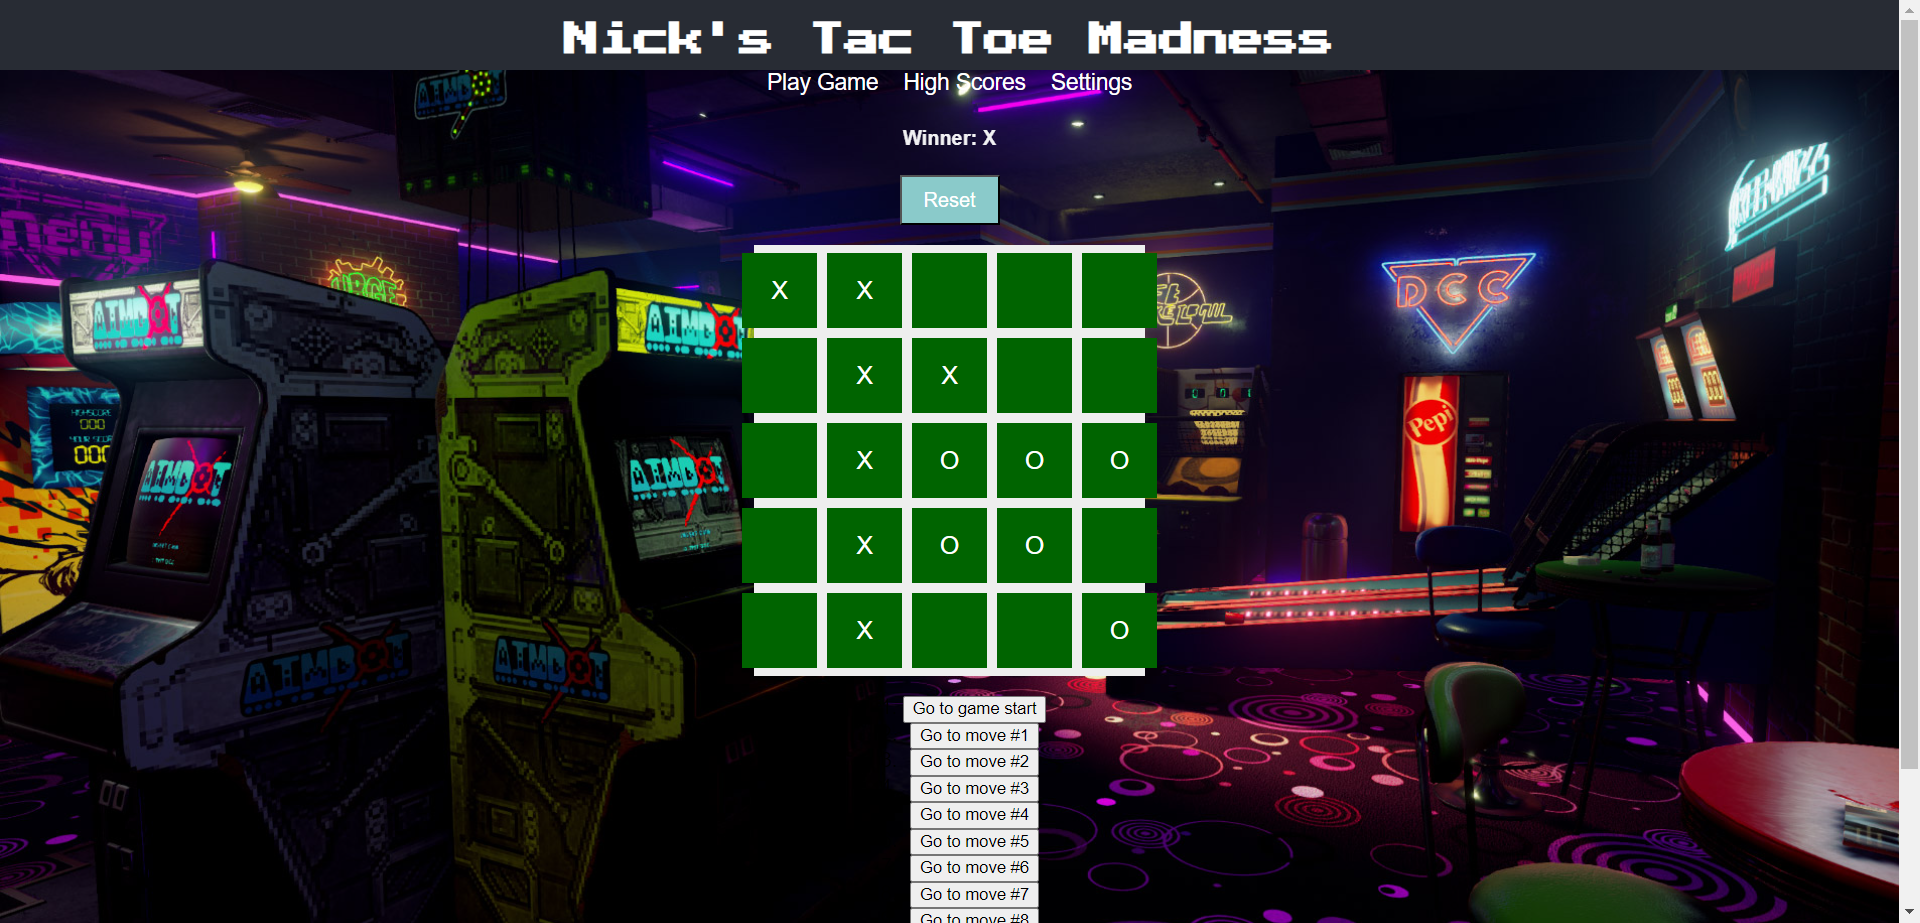
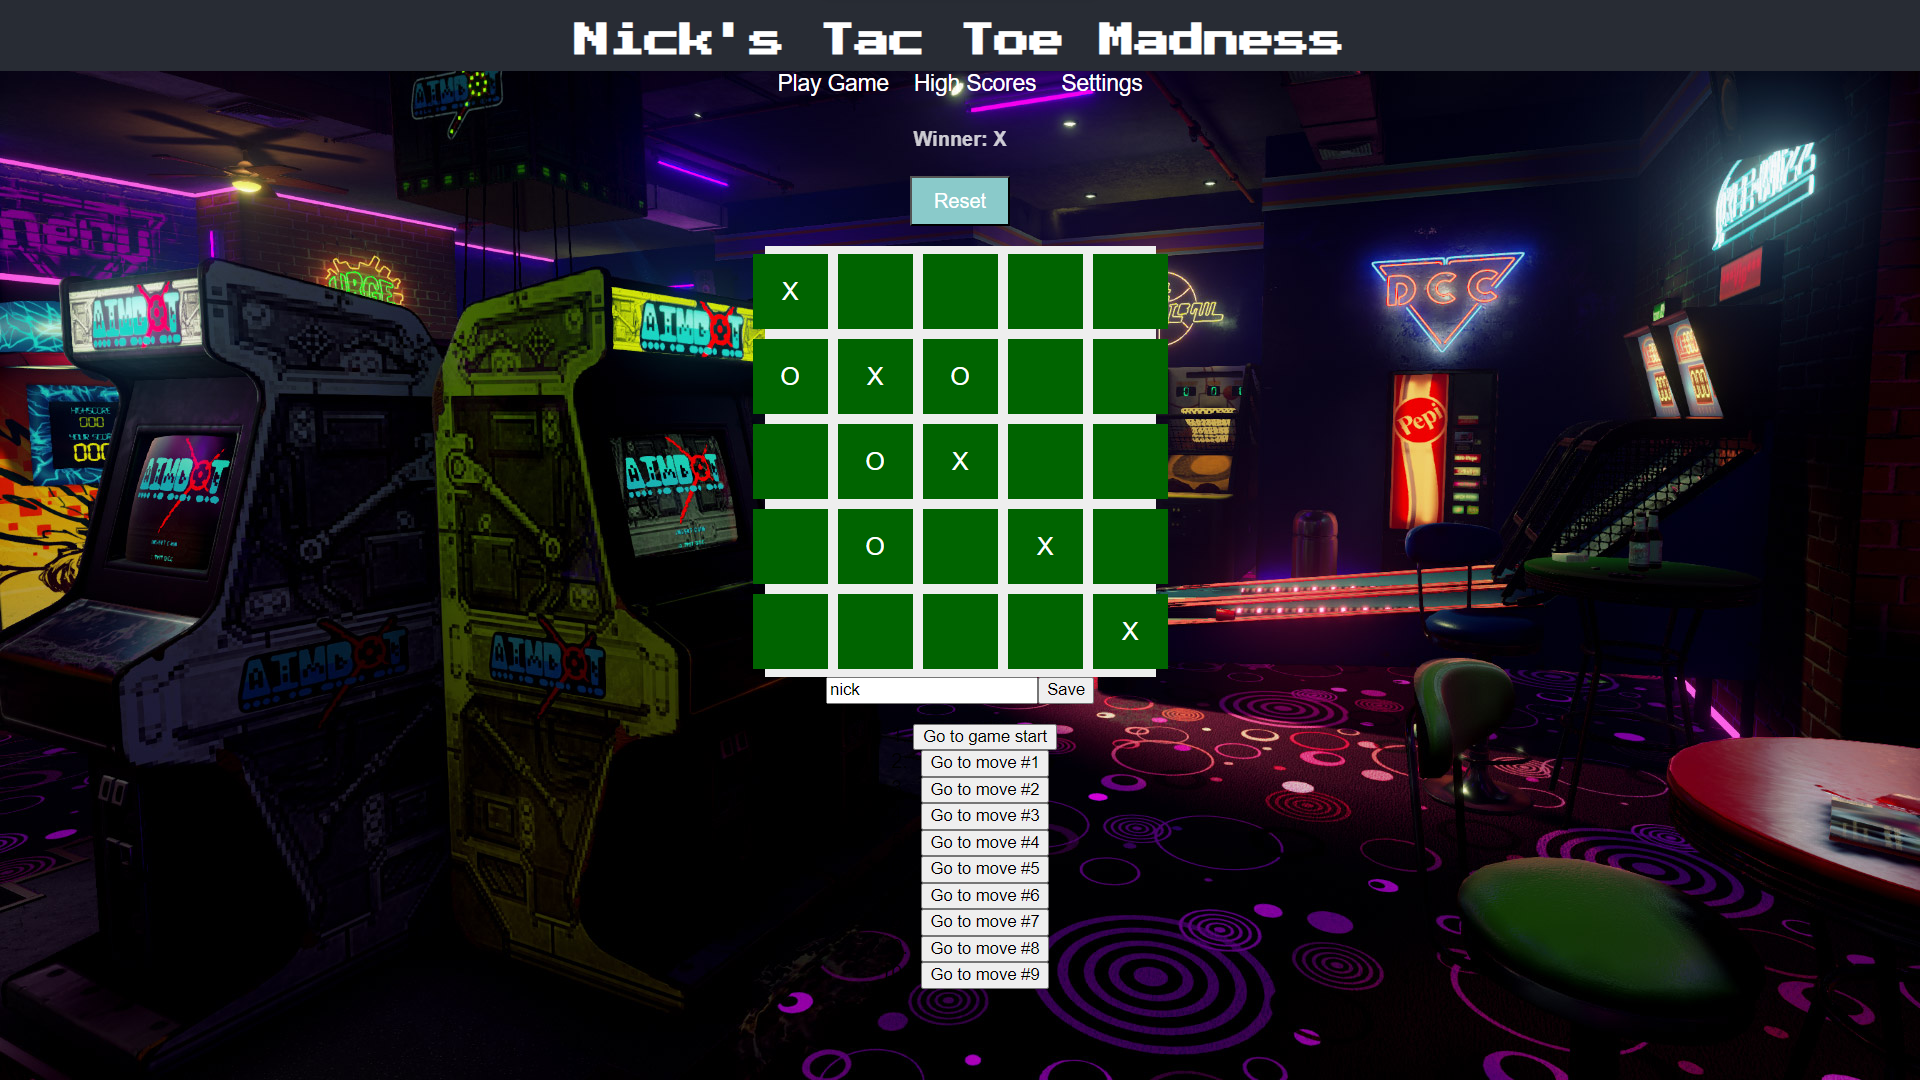
third commit

diff --git a/src/components/Game.js b/src/components/Game.js
@@ -1,6 +1,7 @@
 // src/components/Game.js
 import React, { useState, useEffect } from 'react';
-import { useLocation } from 'react-router-dom';
+import { useLocation, useNavigate } from 'react-router-dom';
+import './Game.css';
 
 const rowStyle = {
   display: "flex",
@@ -170,26 +171,41 @@ const createInitialSquares = (boardSize) => {
 
 const Game = () => {
   const location = useLocation();
+  const navigate = useNavigate();
 
   const { boardSize } = location?.state || { boardSize: 3 };
 
-  const [history, setHistory] = useState([createInitialSquares(boardSize)]);
+  const [gameHistory, setHistory] = useState([createInitialSquares(boardSize)]);
   const [currentMove, setCurrentMove] = useState(0);
+  const [showNameInput, setShowNameInput] = useState(false); 
+  const [newHighScoreName, setNewHighScoreName] = useState(''); 
   const xIsNext = currentMove % 2 === 0;
-  const currentSquares = history[currentMove];
+  const currentSquares = gameHistory[currentMove];
 
   useEffect(() => {
-
     setHistory([createInitialSquares(boardSize)]);
   }, [boardSize]);
   
   const handlePlay = (nextSquares) => {
-    const nextHistory = [...history.slice(0, currentMove + 1), nextSquares];
+    const nextHistory = [...gameHistory.slice(0, currentMove + 1), nextSquares];
     setHistory(nextHistory);
     setCurrentMove(nextHistory.length - 1);
+
+    const winner = calculateWinner(nextSquares);
+    if (winner) {
+      // Trigger the score-saving process when a player wins
+      setShowNameInput(true);
+      setNewHighScoreName('');
+    }
   };
 
-  const moves = history.map((squares, move) => {
+  const handleSaveScore = () => {
+    // Add logic to save the new high score with the entered name
+    setShowNameInput(false);
+    navigate('/high-scores');
+  };
+
+  const moves = gameHistory.map((squares, move) => {
     let description;
     if (move > 0) {
       description = "Go to move #" + move;
@@ -207,15 +223,26 @@ const Game = () => {
   return (
     <div style={containerStyle} className="gameBoard">
       <div className="game-board">
-        {}
         <Board xIsNext={xIsNext} squares={currentSquares} onPlay={handlePlay} />
       </div>
+      {showNameInput && (
+        <div className="name-input-container">
+          <input
+            type="text"
+            placeholder="Enter your name"
+            value={newHighScoreName}
+            onChange={(e) => setNewHighScoreName(e.target.value)}
+          />
+          <button className="save-button" onClick={handleSaveScore}>
+            Save
+          </button>
+        </div>
+      )}
       <div className="game-info">
         <ol>{moves}</ol>
       </div>
     </div>
   );
 };
-
 
 export default Game;

diff --git a/src/components/HighScores.js b/src/components/HighScores.js
@@ -11,12 +11,15 @@ const HighScores = () => {
     { name: 'Marcus', score: 450 },
     { name: 'Rachel', score: 350 },
   ]);
+  const [showNameInput, setShowNameInput] = useState(false); 
+  const [newHighScoreName, setNewHighScoreName] = useState('');
+
   const navigate = useNavigate();
 
   useEffect(() => {
     const fetchData = async () => {
       try {
-        const response = await fetch('your-api-endpoint'); // Replace with your actual API endpoint
+        const response = await fetch('your-api-endpoint'); 
         const data = await response.json();
         const sortedScores = data.sort((a, b) => b.score - a.score);
         setHighScores(sortedScores);
@@ -32,17 +35,31 @@ const HighScores = () => {
     navigate('/');
   };
 
+  const handleSaveScore = () => {
+    if (newHighScoreName.trim() !== '') {
+      
+      const newScore = { name: newHighScoreName, score: 1000 }; 
+
+      const updatedHighScores = [...highScores, newScore].sort((a, b) => b.score - a.score);
+      setHighScores(updatedHighScores);
+
+      setShowNameInput(false);
+    }
+  };
+
   return (
     <div className="high-scores">
       <h2 className="header-text">High Scores</h2>
-      <div className="table-container"> {/* Add a container for center alignment */}
+      <div className="table-container">
         <table className="high-scores-table">
+          {/* Table headers */}
           <thead>
             <tr>
               <th className="table-header">Player Name</th>
               <th className="table-header">Score</th>
             </tr>
           </thead>
+          {/* Table body */}
           <tbody>
             {highScores.map((score, index) => (
               <tr key={index}>
@@ -53,7 +70,24 @@ const HighScores = () => {
           </tbody>
         </table>
       </div>
-      <button className="back-button" onClick={handleBackToMain}>Back to Main</button>
+      {/* Display name input when a new high score is achieved */}
+      {showNameInput && (
+        <div className="name-input-container">
+          <input
+            type="text"
+            placeholder="Enter your name"
+            value={newHighScoreName}
+            onChange={(e) => setNewHighScoreName(e.target.value)}
+          />
+          <button className="save-button" onClick={handleSaveScore}>
+            Save
+          </button>
+        </div>
+      )}
+      {/* Display back button */}
+      <button className="back-button" onClick={handleBackToMain}>
+        Back to Main
+      </button>
     </div>
   );
 };
